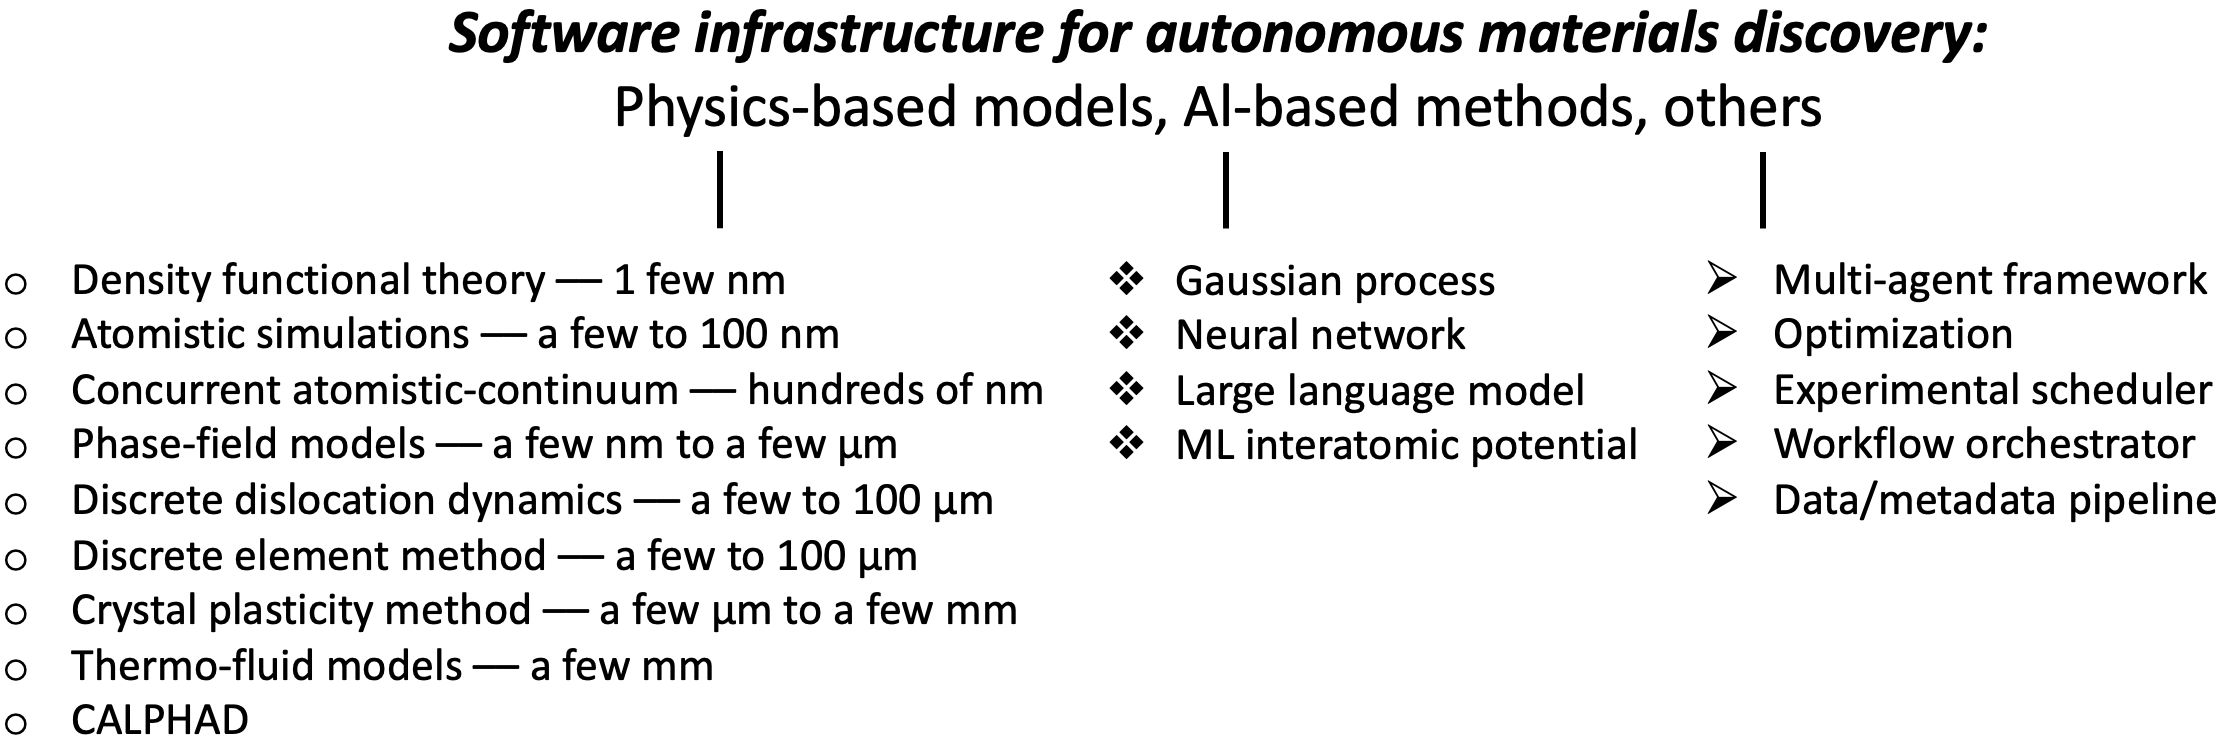
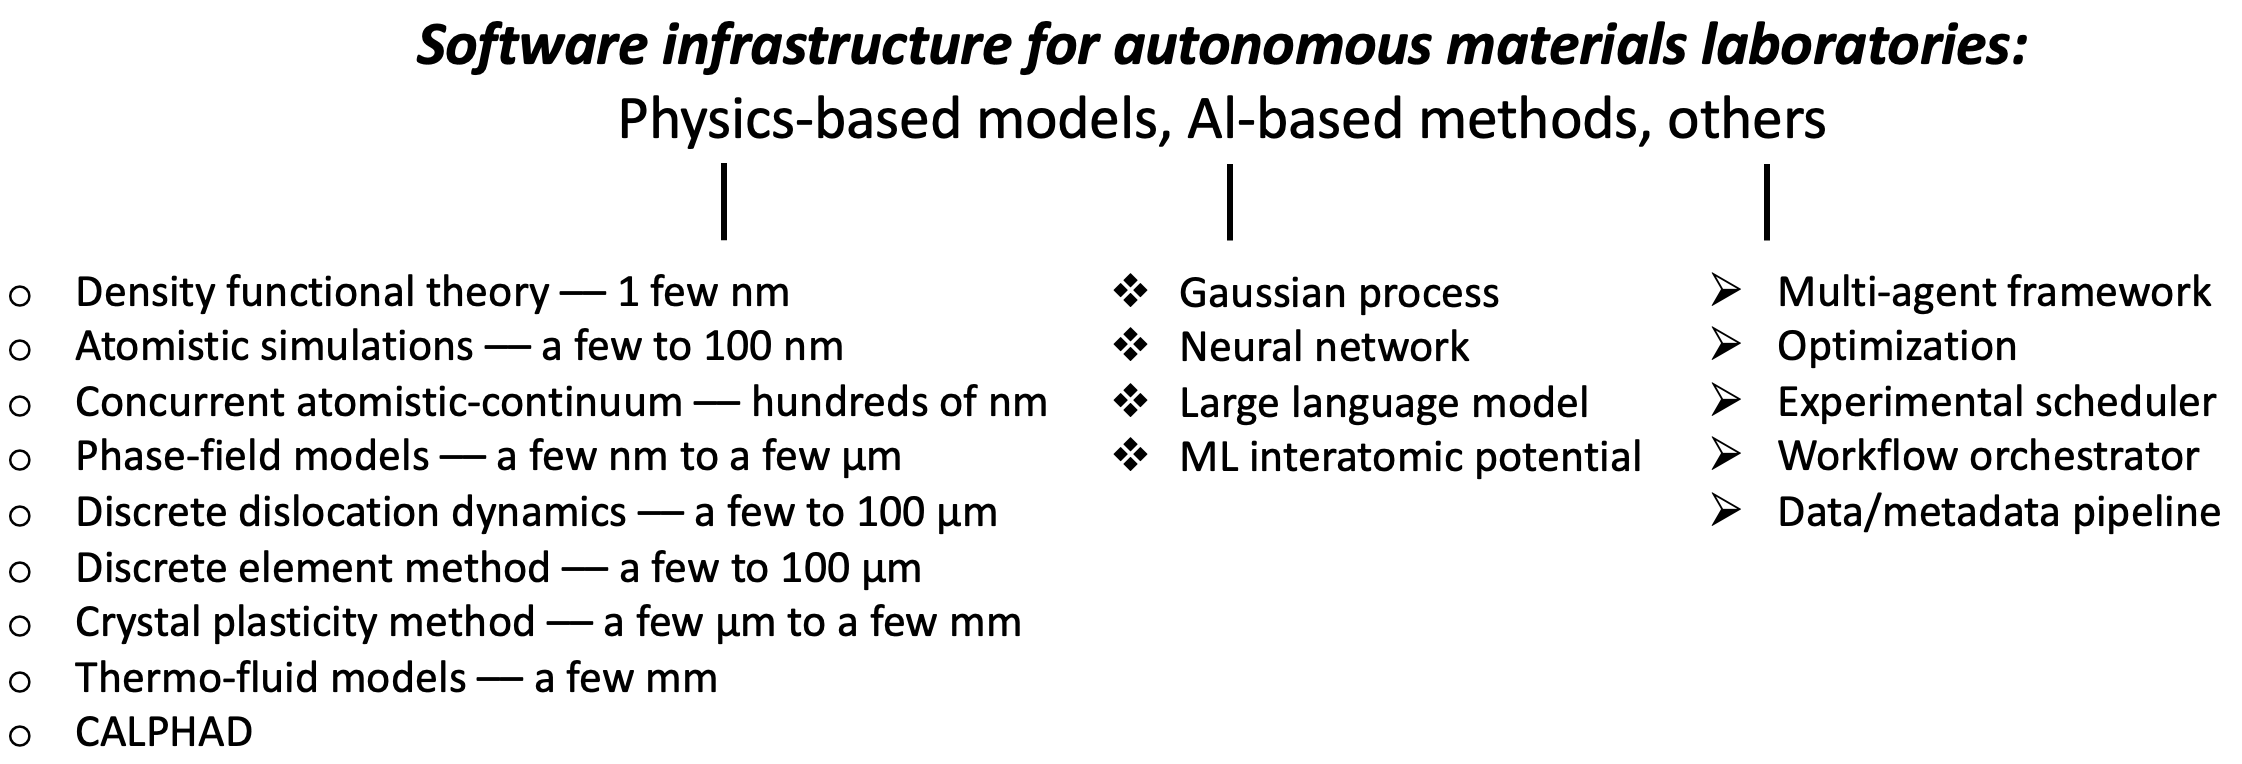
lab

diff --git a/research.html b/research.html
@@ -17,7 +17,7 @@
                             <p>In the <a href="group.html">CM<sup>3</sup> Lab</a>, we make scientific and technical advances in materials, mechanics, and manufacturing.</p>
                         	<p>From the scientific perspective, we investigate processing-structure-property relationships in engineering structural materials.</p>
                             <figure><img src="research/scientific.png" alt="CM3-res" width=800></figure>
-                        	<p>From the technical perspective, we build software infrastructure for autonomous materials discovery.</p>
+                        	<p>From the technical perspective, we build software infrastructure for autonomous materials laboratories.</p>
                             <figure><img src="research/technical.png" alt="CM3-inf" width=800></figure>
                         </div>
                         <h3><a id="physics"></a>Physics-based models</h3>
